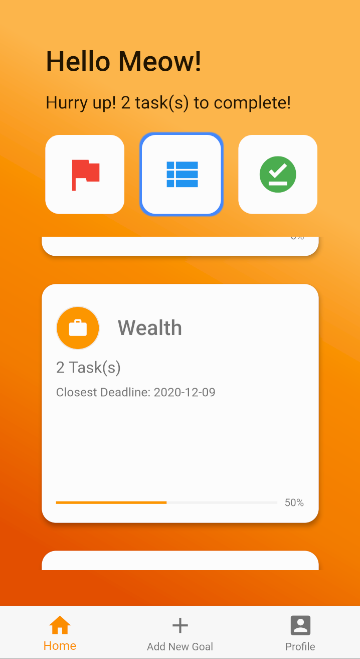
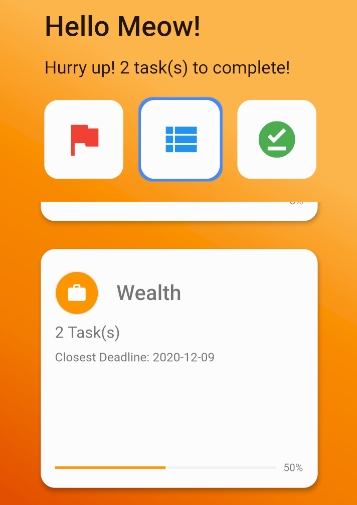
image resize

diff --git a/README.md b/README.md
@@ -17,17 +17,17 @@ iOS 10 or later
 gogoGoals automatically detects keywords to search for suitable to-dos via API sources, with support of synonym matching.
 (Try "Learn Flutter programming" or "Study Flutter programming")
 
-<img src="https://github.com/NTU-AY2020-DIP-Group-8/gogogoals/blob/master/resources/recommend.png" width="350" alt="rec"/>
+<div align=center><img src="https://github.com/NTU-AY2020-DIP-Group-8/gogogoals/blob/master/resources/recommend.png" width="300" alt="rec"/></div>
 
 #### Time bound
 Deadline allows users to keep on time with their commitments. The earliest deadline of each task category is displayed on the main page at a glance. (Try checking Profile page after setting deadlines to your tasks)
 
-<img src="https://github.com/NTU-AY2020-DIP-Group-8/gogogoals/blob/master/resources/sorting.png" width="350" alt="sorting"/>
+<div align=center><img src="https://github.com/NTU-AY2020-DIP-Group-8/gogogoals/blob/master/resources/sorting.png" width="300" alt="sorting"/></div>
 
 #### Highly Cutomisable UI
 Higher customisaability allows you to have a personal touch by changing icons and their colurs based on your preferences.
 
-<img src="https://github.com/NTU-AY2020-DIP-Group-8/gogogoals/blob/master/resources/custom.png" width="350" alt="ui"/>
+<div align=center><img src="https://github.com/NTU-AY2020-DIP-Group-8/gogogoals/blob/master/resources/custom.png" width="300" alt="ui"/></div>
 
 ## Contribute to gogoGoals
 
